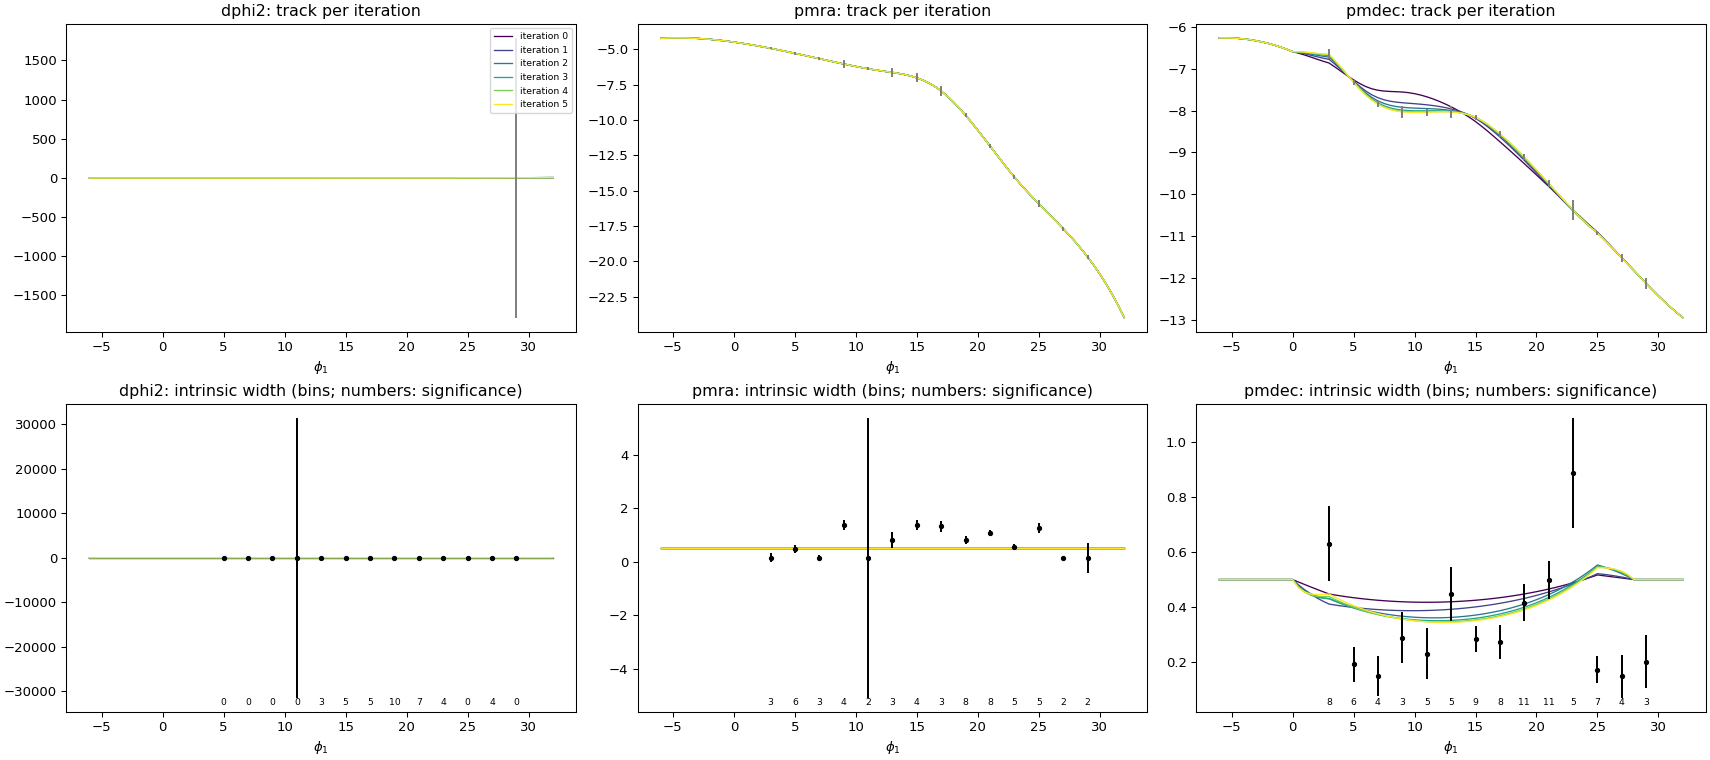
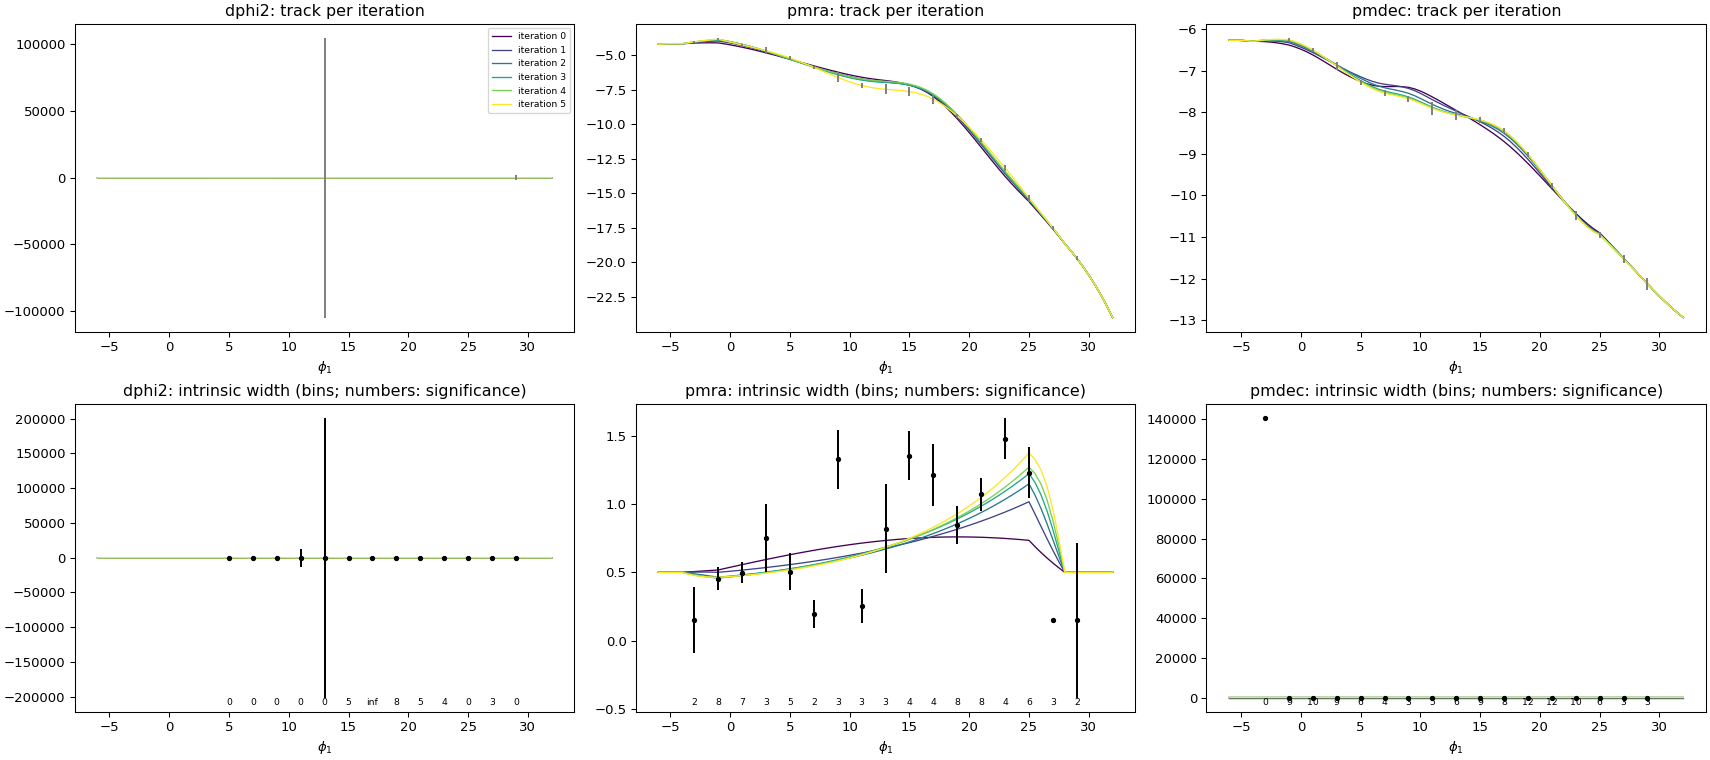
stream_masks.py: PM fits extended to phi1 -4; robust spline knots; sky border excludes the upper branch, linear in phi1

diff --git a/bin/streams/stream_masks.py b/bin/streams/stream_masks.py
@@ -35,7 +35,7 @@ from scipy.interpolate import make_smoothing_spline
 from scipy.ndimage import gaussian_filter
 
 GRID = np.arange(-6, 32.01, 0.5)
-BINS = [(c-1, c+1) for c in range(3, 30, 2)]          # phi1 >= 2 (footprint edge and the omega Cen mask below)
+BINS = [(c-1, c+1) for c in range(-3, 30, 2)]          # from phi1 -4 (user: signal near the cluster); sky fits phi1 >= 4 (footprint edge)
 K_ITER, K_FINAL, NIT = 2.5, 2.0, 6
 CAP = dict(pmra=1.5, pmdec=1.5, dphi2=1.5)              # width caps
 DAMP, SIG_MIN = 0.5, 4.0                                # damped track updates; bins accepted at >= 4 sigma
@@ -147,7 +147,12 @@ def smooth_offset(cs, y, err, ok, taper=3.0):
     if ok.sum() < 5:
         return None
     x, yy, w = cs[ok], y[ok], 1/np.maximum(err[ok], 1e-3); lo, hi = x.min(), x.max()
-    kn = np.arange(lo+6, hi-5.9, 6.); sp = LSQUnivariateSpline(x, yy, kn, w=w, k=3) if len(kn) else np.poly1d(np.polyfit(x, yy, min(3, len(x)-1), w=w))
+    kn = list(np.arange(lo+6, hi-5.9, 6.)); sp = None
+    while sp is None:                                             # drop knots until the Schoenberg-Whitney conditions hold (gaps in accepted bins)
+        try:
+            sp = LSQUnivariateSpline(x, yy, kn, w=w, k=3) if kn else np.poly1d(np.polyfit(x, yy, min(3, len(x)-1), w=w))
+        except ValueError:
+            kn = kn[1:-1] if len(kn) > 1 else []
     def f(g):
         g = np.asarray(g, float); v = sp(np.clip(g, lo, hi))
         t = np.clip(1-np.maximum(lo-g, g-hi).clip(0)/taper, 0, 1); return v*t
@@ -177,6 +182,7 @@ w95 = first w with F >= frac (clipping the excess to positive values made noise 
         sel = other_masks(D, T, q, K_ITER) if q == "dphi2" else other_masks(D, {**T, "dphi2": dict(c=T["dphi2"]["c"], s=np.full(GRID.size, 1e6))}, q, K_ITER)
         for a0, a1 in BINS:
             c = 0.5*(a0+a1); kb = sel & (u >= a0) & (u < a1)
+            vu = np.nan
             if q == "dphi2":
                 if c < 14:
                     continue
@@ -192,8 +198,10 @@ w95 = first w with F >= frac (clipping the excess to positive values made noise 
                 continue
             mu = fit[0]["mu"]; e_med = float(np.median(D[q+"_error"][kb])) if q != "dphi2" else 0.; st = np.hypot(fit[0]["s"], e_med)
             Wm = min(max(4*st, 1.5), W-0.5); ex = h-B; d_ = np.abs(cc-mu); inW = d_ < Wm
+            if q == "dphi2" and np.isfinite(vu):
+                ex = np.where(np.abs(cc-vu) < 1.25, 0., ex)               # the upper branch has its own window
             N = ex[inW].sum(); sig = N/np.sqrt(max(B[inW].sum(), 1))
-            if N < 20 or sig < 3:
+            if N < 20 or sig < 3 or sig > 50:                            # > 50 sigma: failed background fit
                 continue
             ws = np.arange(0.1, Wm+1e-9, 0.05); F = np.array([ex[d_ < w_].sum() for w_ in ws])/N; F = np.maximum.accumulate(F)
             w95 = float(ws[np.argmax(F >= frac)]) if (F >= frac).any() else float(Wm)
@@ -250,7 +258,8 @@ def main():
         mid = np.array([r["mid"] for r in rows]); lo = np.array([r["lo"] for r in rows]); hi = np.array([r["hi"] for r in rows])
         T[q]["c_emp"], T[q]["lo_emp"], T[q]["hi_emp"] = T[q]["c"].copy(), np.full(GRID.size, np.nan), np.full(GRID.size, np.nan)
         if okb.sum() >= 4:
-            pl = np.polyfit(cs[okb], lo[okb], 2, w=np.sqrt(sig[okb])); ph = np.polyfit(cs[okb], hi[okb], 2, w=np.sqrt(sig[okb]))
+            dg = 1 if q == "dphi2" else 2                                 # sky: few bins -> linear (a quadratic pinched the border)
+            pl = np.polyfit(cs[okb], lo[okb], dg, w=np.sqrt(sig[okb])); ph = np.polyfit(cs[okb], hi[okb], dg, w=np.sqrt(sig[okb]))
             a_, b_ = cs[okb].min(), cs[okb].max(); g = np.clip(GRID, a_, b_)
             T[q]["lo_emp"] = np.where((GRID >= a_-1) & (GRID <= b_+1), np.polyval(pl, g), np.nan); T[q]["hi_emp"] = np.where((GRID >= a_-1) & (GRID <= b_+1), np.polyval(ph, g), np.nan)
         print(f"{q} 95% borders: " + " ".join(f"[{r['c']:.0f}: {r['lo']:+.2f}..{r['hi']:+.2f} N{r['N']:.0f} {r['sig']:.0f}s]" for r in rows), flush=True)
